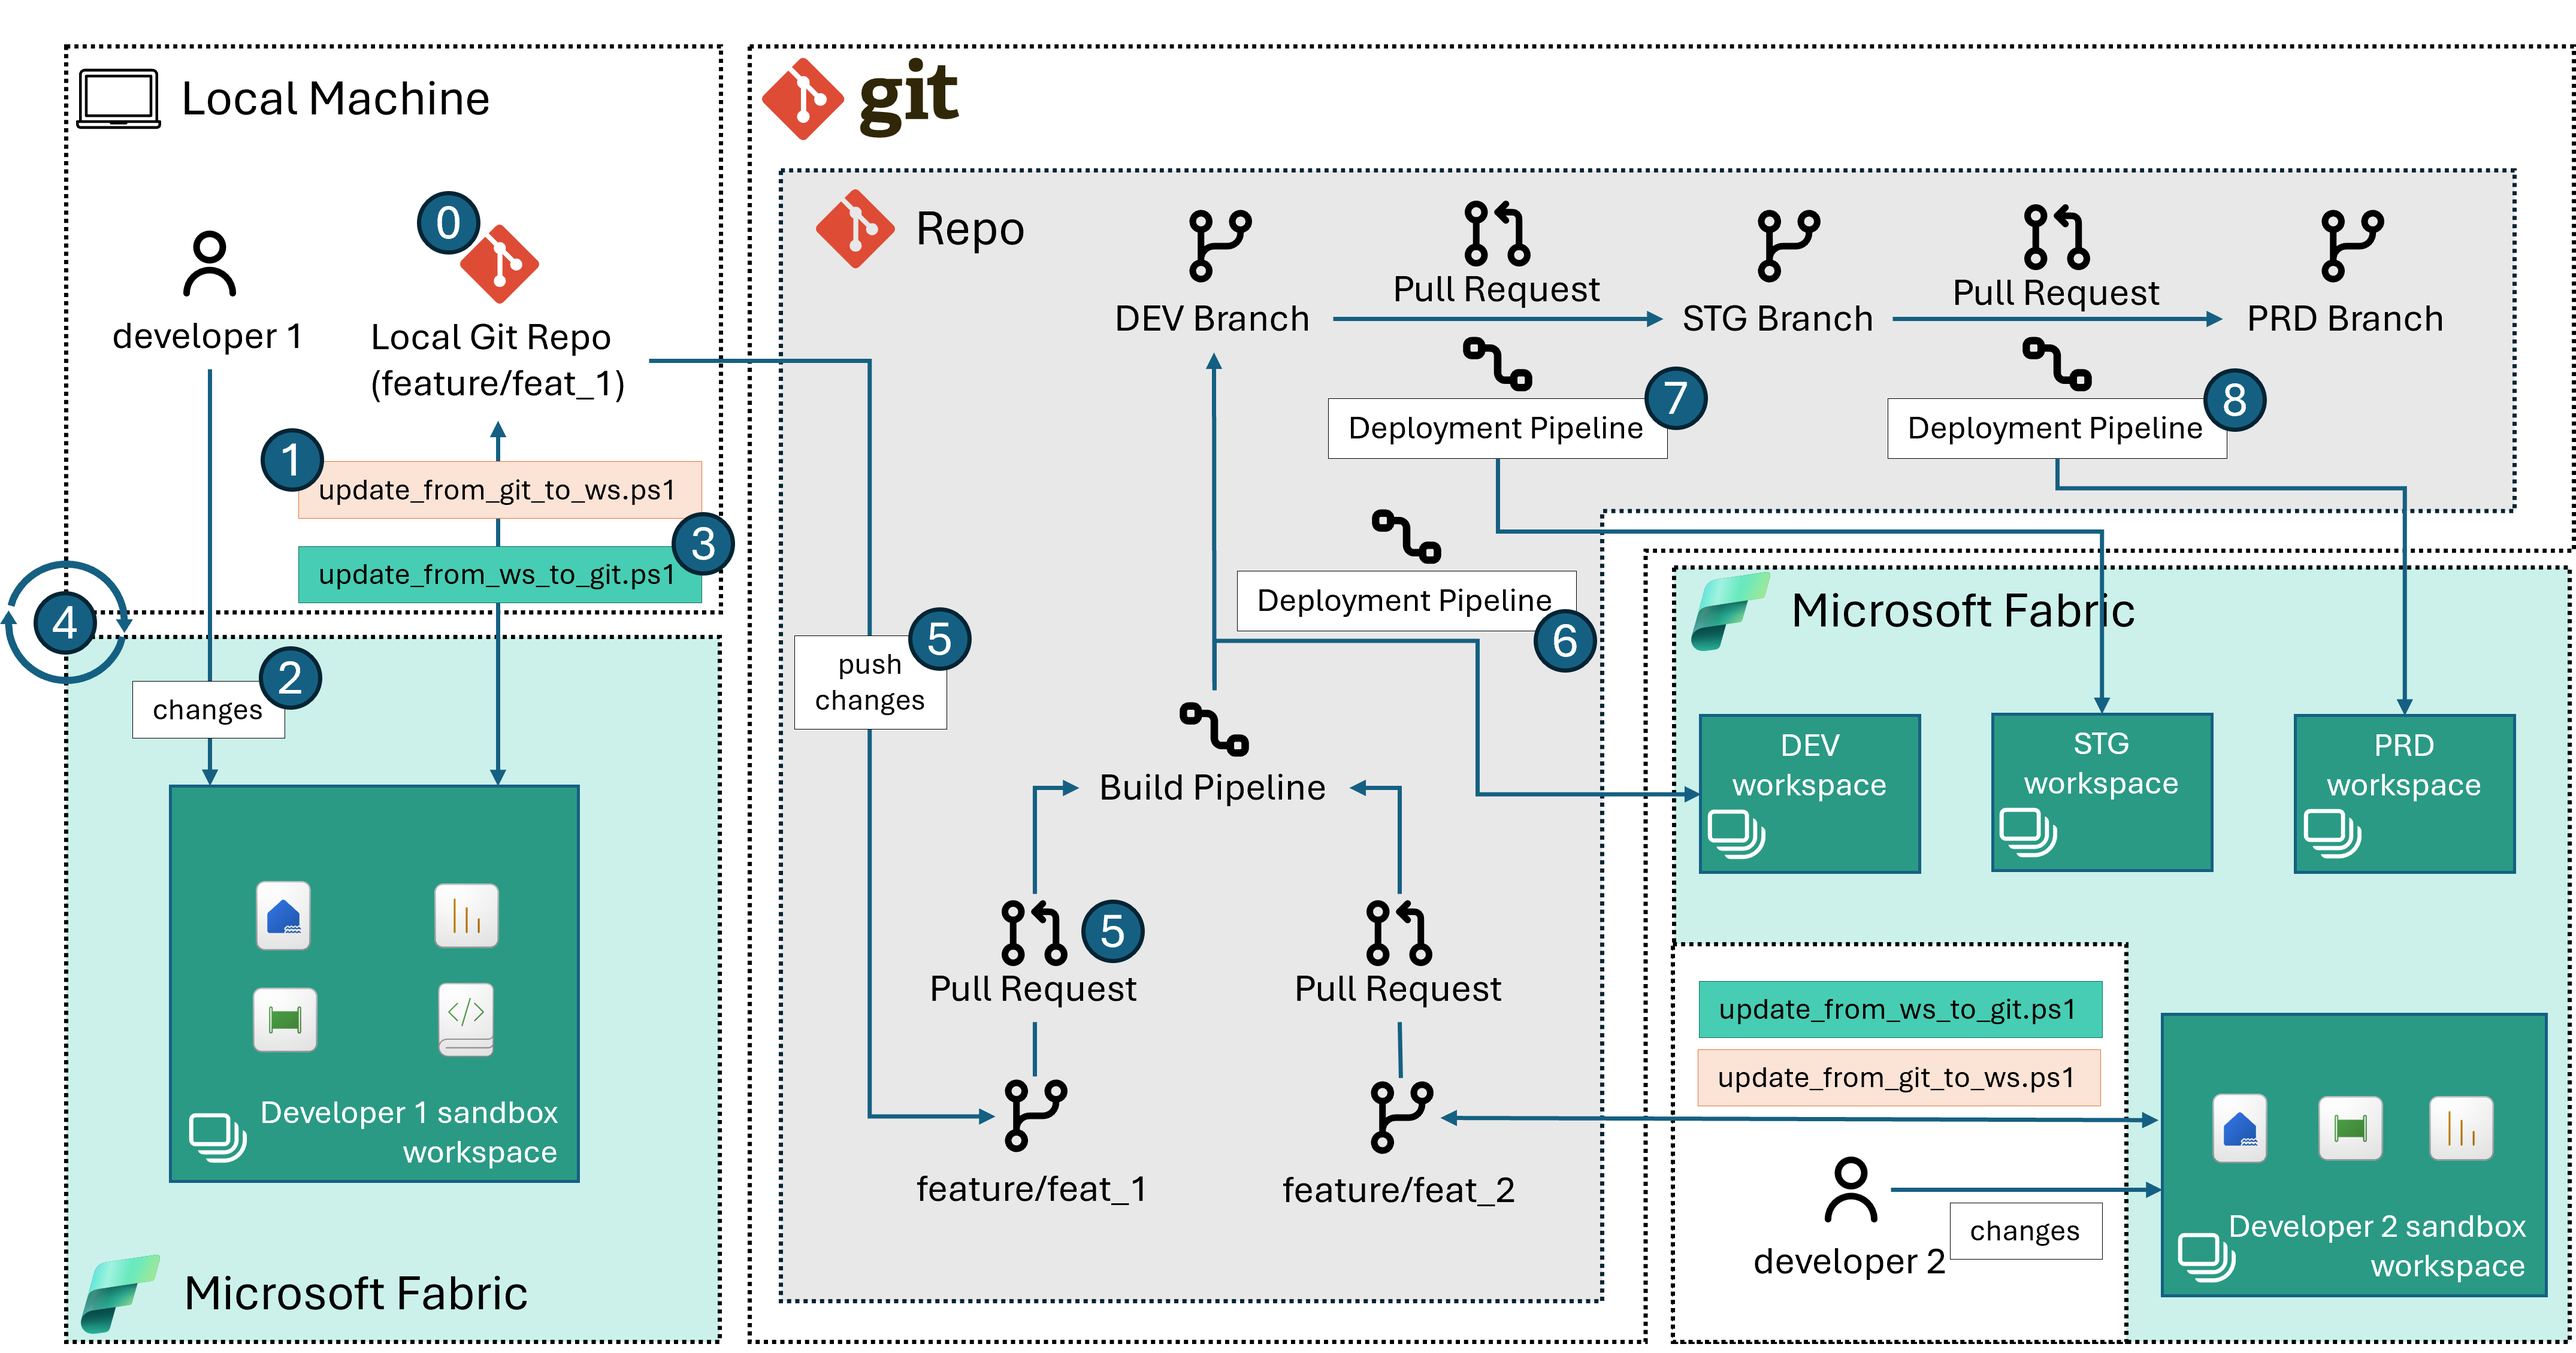
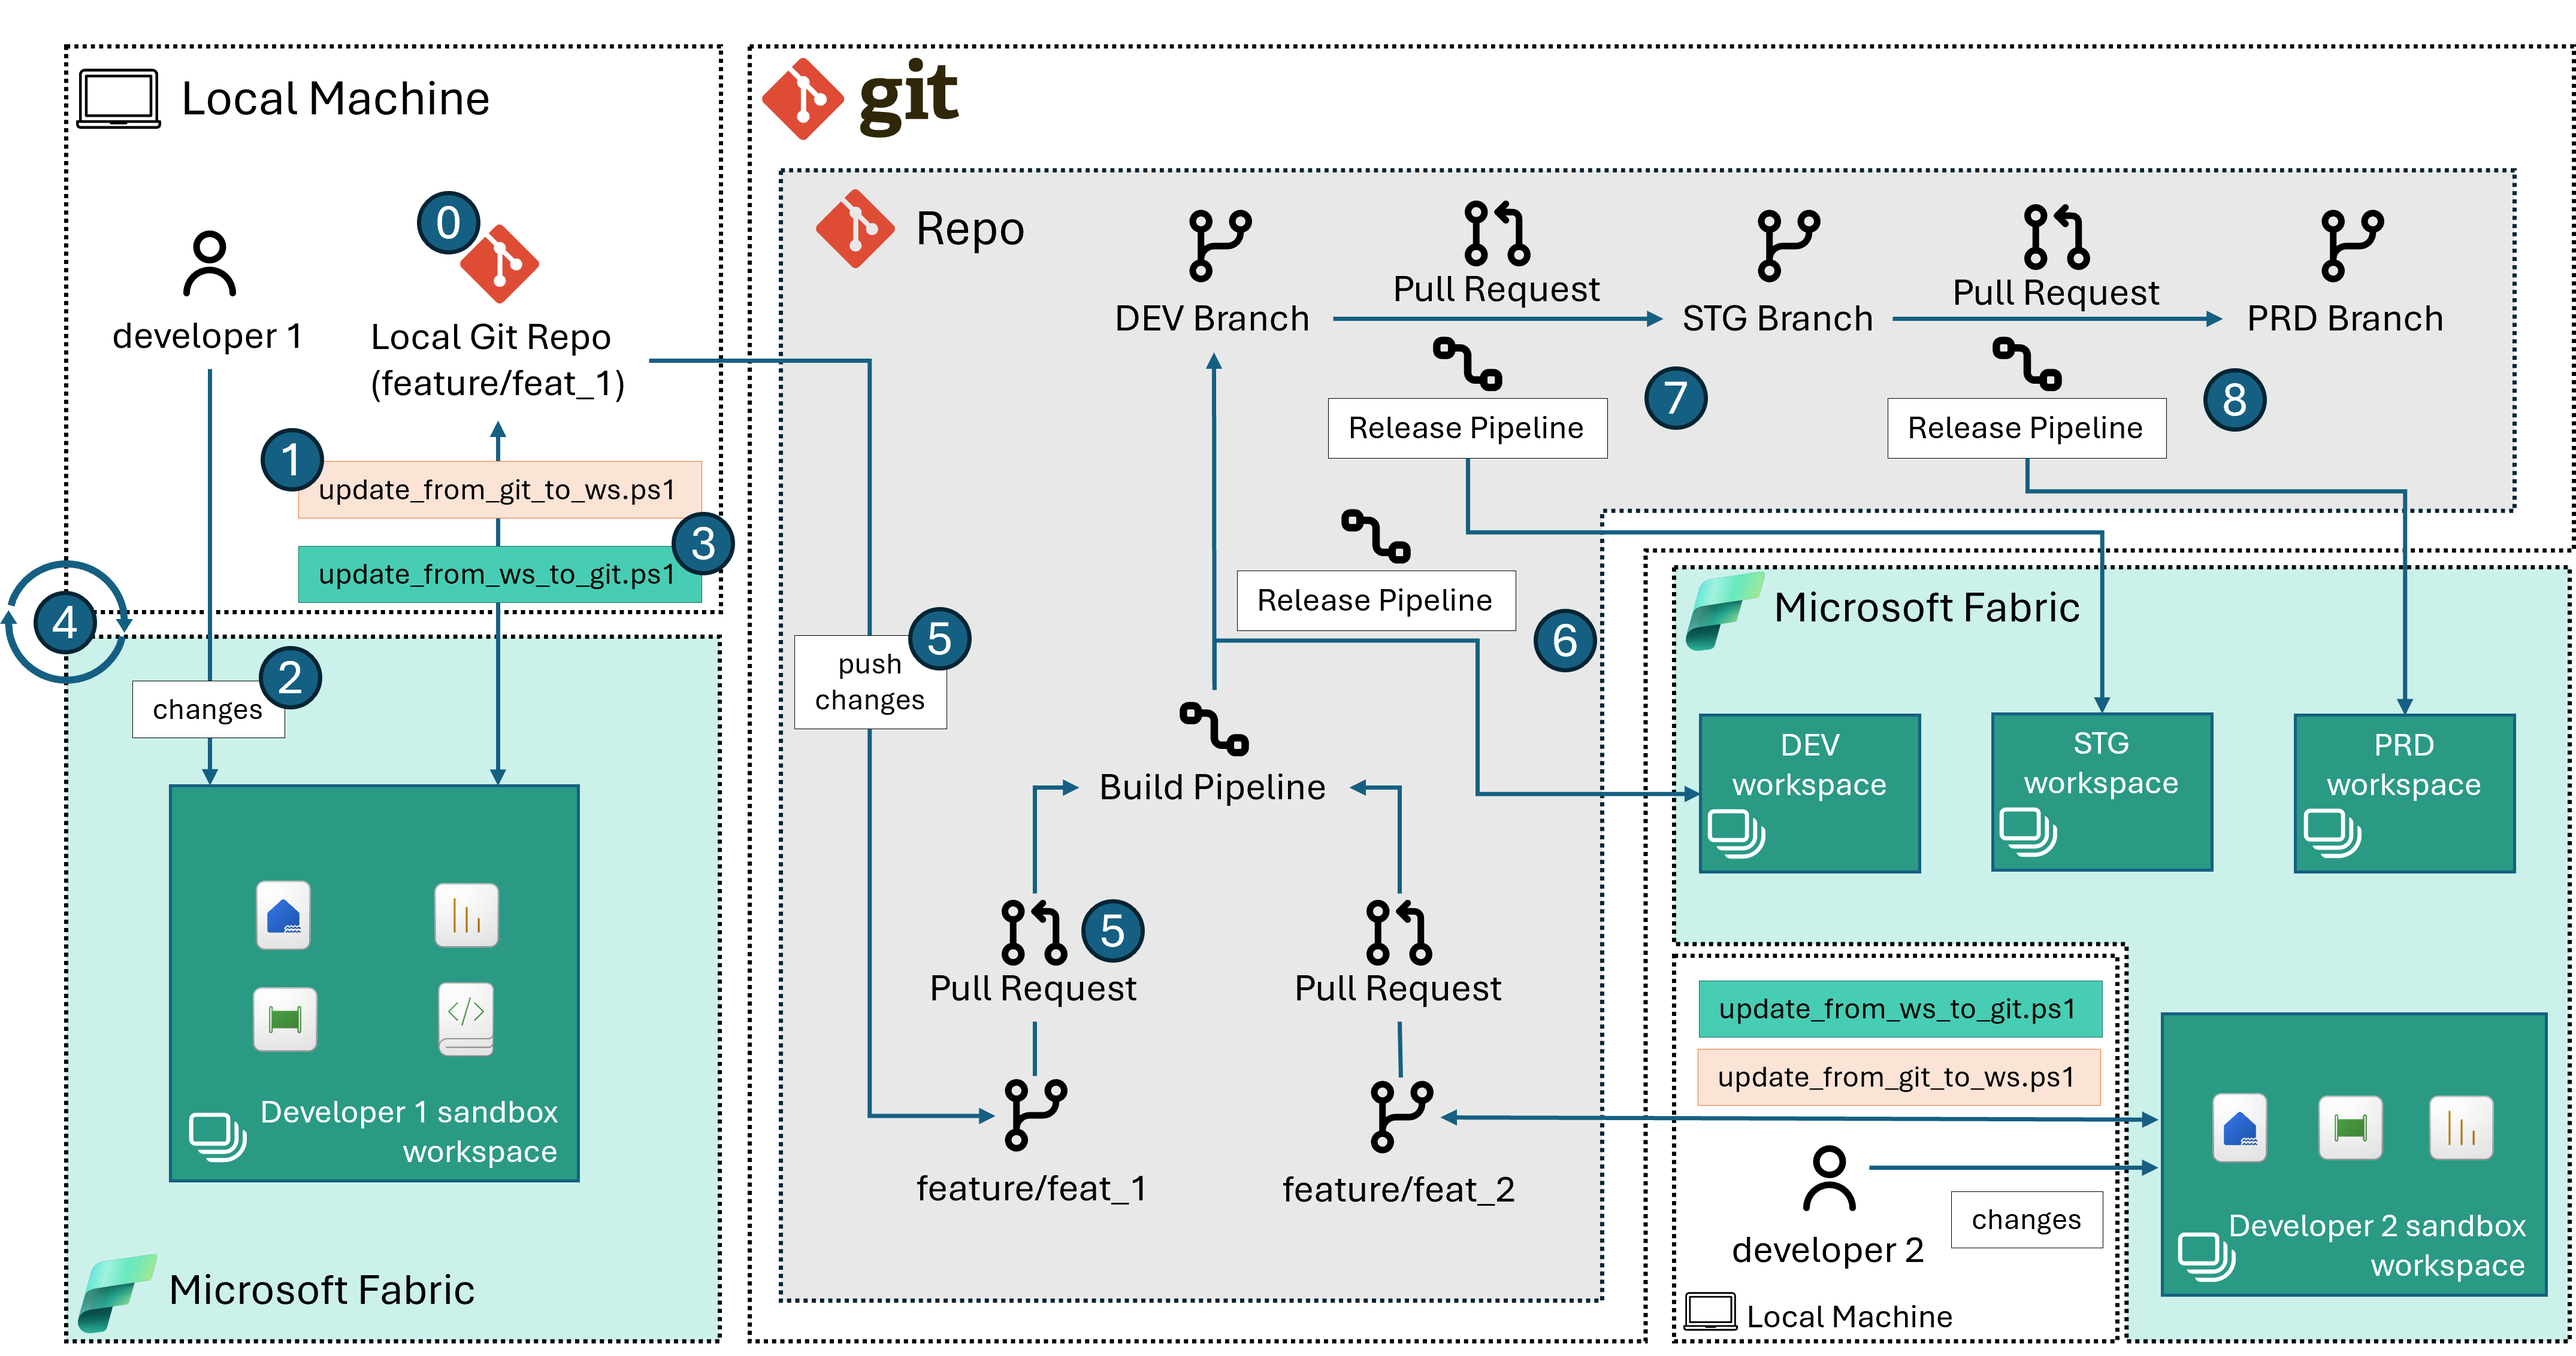
changes to reflect suggestions

diff --git a/single_tech_samples/fabric/fabric_cicd_gitlab/README.md b/single_tech_samples/fabric/fabric_cicd_gitlab/README.md
@@ -1,50 +1,35 @@
 # Fabric CI/CD Sample for Multi-Tenancy or Generic Git
 
-This code sample serves as a starting point for implementing CI/CD processes when working with Microsoft Fabric. While it currently has some [limitations](#known-limitations), the goal is to iteratively enhance its capabilities in alignment with Fabric’s advancements.
+## Introduction
 
-The sample is recommended if:
+This code sample provides an advanced mechanism for implementing a CI/CD process with Microsoft Fabric, accomodating multi-tenancy and generic-git deployments. While the sample currently has some [limitations](#known-limitations), the goal is to iteratively enhance its capabilities in alignment with Fabric’s advancements.
+
+This sample is recommended if:
 
 - your organization adopts multi-tenancy in their CI/CD processes, such as the different environments (such as Development, Staging and Production) are on different Microsoft Entra IDs.
 - your organization's preferred git tool is today not yet supported by Fabric (i.e. such as GitLab, and Bitbucket).
 
 If none of the scenarios above match your current situation, consider using the [Fabric CI/CD sample for Azure DevOps](../fabric_ci_cd/README.md).
 
-## Requirements
+## How Does It Work?
 
-- Powershell version 7+
-- Local IDE with git command installed.
-- A DevOps source control system, like Azure DevOps or GitLab.
-- A Fabric tenant with at least one capacity running.
-  - If you don't have a Fabric tenant you can create a [Fabric trial](https://learn.microsoft.com/fabric/get-started/fabric-trial) and use a trial capacity instead.
+### Using REST APIs for creating/updating Fabric items
 
-## Set-up Instructions
+Currently, Microsoft Fabric supports Git integration for Azure DevOps only. For this reason, this sample presents a way to use [Fabric REST APIs](https://learn.microsoft.com/rest/api/fabric/articles/using-fabric-apis) to integrate with other GIT source control mechanisms beyond Azure devOps. A brief summary of the steps involved are:
 
-### Repository
+1. Creating a Fabric workspace (if not existing already)
+2. Creating/updating Fabric items in the workspace to reflect what is on the developer branch.
+3. Working as needed in the Fabric workspace.
+4. Updating changes from workspace to reflect them back in source control.
 
-To use this sample it is advisable that you:
+> **Note 1**: This sample follows a strategy where each feature branch is paired with a corresponding Fabric workspace, implementing a one-workspace-per-branch approach.
+>
+> **Note 2**: This example includes a set of Fabric items to demonstrate the functionality of the solution. You are welcome to substitute these with your own items. In doing so, we advise maintaining identifiers such as workspaceIds and LakehouseIds as parameters for Notebooks and Data Pipelines. Failure to do this may result in the script being unable to push your item definitions if they reference item ids that have been removed.
 
-1. Create a brand new repository with your source control tool of choice.
-2. Clone the entire repository locally to a directory of your choice.
-3. Copy everything that is under [this sample's folder](./) to the directory from step 2.
-4. Read remaining instructions.
+This approach assumes that the developer will operate by following the recommended workflow, as described below in the [Recommended Workflow](#recommended-workflow) section.
 
-### PowerShell Scripts
 
-This sample uses PowerShell scripts to automate the CI/CD process. Below, you’ll find a brief overview of their purpose.
-
-| Script/File | Description |
-|--------|-------------|
-|[params.psd1](./src/params.psd1)|Parameters file - used to store the values of input arguments to the scripts. Update the values as needed.|
-|[update_from_git_to_ws.ps1](./src/update_from_git_to_ws.ps1)|Script to create a Fabric workspace (if non existing) and sync assets from source control (local git branch) to the workspace.|
-|[update_from_ws_to_git.ps1](./src/update_from_ws_to_git.ps1)|Script to update the local repository from the item defintions in the Fabric workspace.|
-
-> Note: to avoid committing secrets to your remote branch, make sure to ignore changes to the local version of your `params.psd1` file.
-
-### DevOps Pipelines
-
-Create Build (CI) and Release (CD) pipelines from the YML definitions provided in this sample. To do so, refer to the information in the [DevOps pipeline readme](./devops/README.md).
-
-## Fabric Items and Source Control
+### Source control mechanism for Fabric items
 
 This sample maintains a record of changes to Fabric items in source control to prevent the need for constant deletion and recreation of modified items. It does this by tracking the *Object Id*s (the GUIDs of the items in the Fabric workspace, as per the Fabric REST APIs) in an `item-config.json` configuration file.
 
@@ -58,7 +43,9 @@ All the files that compose a specific Fabric item are stored in a corresponding 
 
 All these individual item folders are then stored in one main folder, named `fabric` in this sample.
 
-folder structure:
+### Understanding repository structure
+
+The below folder structure offers a visual representation of how this code sample will organize source control files in the repository:
 
 ```fsys
 / (root of this project)
@@ -78,20 +65,46 @@ folder structure:
 └───...
 ```
 
-## Using Fabric item APIs for Git integration
 
-Currently, Microsoft Fabric supports Git integration for Azure DevOps only. This article presents a way to use [Fabric REST APIs](https://learn.microsoft.com/rest/api/fabric/articles/using-fabric-apis) to integrate with other GIT source control mechanisms beyond Azure devOps. A brief summary of the steps involved are:
 
-1. Creating a Fabric workspace (if not existing already)
-2. Creating/updating Fabric items in the workspace to reflect what is on the developer branch.
-3. Working as needed in the Fabric workspace.
-4. Updating changes from workspace to reflect them back in source control.
+### Understanding The PowerShell Scripts
 
-> **Note 1**: This sample follows a strategy where each feature branch is paired with a corresponding Fabric workspace, implementing a one-workspace-per-branch approach.
->
-> **Note 2**: This example includes a set of Fabric items to demonstrate the functionality of the solution. You are welcome to substitute these with your own items. In doing so, we advise maintaining identifiers such as workspaceIds and LakehouseIds as parameters for Notebooks and Data Pipelines. Failure to do this may result in the script being unable to push your item definitions if they reference item ids that have been removed.
+This sample uses PowerShell scripts to automate the CI/CD process. Below, you’ll find a brief overview of their purpose.
 
-This approach assumes that the developer will operate by following the recommended workflow, as described below.
+| Script/File | Description |
+|--------|-------------|
+|[params.psd1](./src/params.psd1)|Parameters file - used to store the values of input arguments to the scripts. Update the values as needed.|
+|[update_from_git_to_ws.ps1](./src/update_from_git_to_ws.ps1)|Script to create a Fabric workspace (if non existing) and sync assets from source control (local git branch) to the workspace.|
+|[update_from_ws_to_git.ps1](./src/update_from_ws_to_git.ps1)|Script to update the local repository from the item defintions in the Fabric workspace.|
+
+> Note: to avoid committing secrets to your remote branch, make sure to ignore changes to the local version of your `params.psd1` file.
+
+### Understanding The DevOps Pipelines
+
+The [DevOps Pipelies README](./devops/README.md) provides a comprehensive explanation of the functionality of the DevOps Pipelines showcased in this example.
+
+## Set-up Instructions
+
+### Pre-Requisites
+
+- Powershell version 7+
+- Local IDE with `git` command installed.
+- A DevOps source control system, like Azure DevOps or GitLab.
+- A Fabric tenant with at least one capacity running.
+  - If you don't have a Fabric tenant you can create a [Fabric trial](https://learn.microsoft.com/fabric/get-started/fabric-trial) and use a trial capacity instead.
+
+### Setting Up Your GIT Repository
+
+To use this sample it is advisable that you:
+
+1. Create a brand new repository with your source control tool of choice.
+2. Clone the entire repository locally to a directory of your choice.
+3. Copy everything that is under [this sample's folder](./) to the directory from step 2.
+4. Read remaining instructions.
+
+### Deployment Steps
+
+Create Build (CI) and Release (CD) pipelines from the YML definitions provided in this sample. To do so, refer to the information in the [DevOps pipeline readme](./devops/README.md).
 
 ### Recommended Workflow
 
@@ -101,11 +114,10 @@ The below picture illustrates these followed by a description of each of the num
 
 **Step 0. Prepare for local development**:
 
-- Create new feature branch from `dev` (or any other development branch) and pull new feature branch locally.
-- In a *bash* session run the following command. This command instructs git to disregard local modifications to any `item-config.json` file. The purpose of this is to prevent the `objectId`s in the `dev` branch from being replaced by the `objectId`s from the developer workspace during a commit. For more information see the [Fabric Items and Source Control](#fabric-items-and-source-control) section.
+- In a `bash` shell run the following command. Replace `feat/feat_1` with your feature branch name and `dev` with you main development branch name. This commands creates a new feature branch locally from `dev` (or the specified branch). It then instructs git to disregard local modifications to any new or existing `item-config.json` file. The purpose of this is to prevent the `objectId`s in the `dev` branch from being replaced by the `objectId`s from the developer workspace during a commit. For more information see the [Source Control Mechanisms for Fabric Items](#source-control-mechanism-for-fabric-items) section.
 
     ```sh
-    git update-index --assume-unchanged $(git ls-files | grep "item-config.json" | tr '\n' ' ')
+    .\new_branch.sh feat/feat_1 dev
     ```
 
 > Note: this approach will also work if no Fabric assets are present on your branch, but you will still need a folder for storing Fabric items definitions later.
@@ -115,7 +127,7 @@ The below picture illustrates these followed by a description of each of the num
 - Update the `params.psd1` file as needed. If you need to generate a new token refer to the [Generating a Fabric Bearer Token](#generating-a-fabric-bearer-token) section. Load the values of the parameters file as follows:
 
     ```pwsh
-    $config = Import-PowerShellDataFile .\<local-file-path>\params.psd1
+    $config = Import-PowerShellDataFile .\src\params.psd1
     ```
 
 - Run the [`update_from_git_to_ws.ps1`](./src/update_from_git_to_ws.ps1) script from the local repository folder. This step will create a new workspace and mirror what is on the repo to the workspace.
@@ -124,13 +136,13 @@ The below picture illustrates these followed by a description of each of the num
   - When running this for the first time on a new branch, utilize the `-resetConfig` setting it to `$true`. This ignores any existing `item-config.json` files and creates corresponding new objects in the workspace. This step is crucial as it prevents the script from failing due to a search for `objectId`s that are coming from the `dev` branch/workspace, which would not exist in the new Fabric workspace.
 
     ```pwsh
-    .\<local-file-path>\update_from_git_to_ws.ps1 -baseUrl $config.baseUrl -fabricToken $config.fabricToken -workspaceName $config.workspaceName -capacityId $config.capacityId -folder $config.folder -resetConfig $true
+    .\src\update_from_git_to_ws.ps1 -baseUrl $config.baseUrl -fabricToken $config.fabricToken -workspaceName $config.workspaceName -capacityId $config.capacityId -folder $config.folder -resetConfig $true
     ```
 
   - All other times you can omit the flag `-resetConfig` (it will default to `$false`).
 
     ```pwsh
-    .\<local-file-path>\update_from_git_to_ws.ps1 -baseUrl $config.baseUrl -fabricToken $config.fabricToken -workspaceName $config.workspaceName -capacityId $config.capacityId -folder $config.folder
+    .\src\update_from_git_to_ws.ps1 -baseUrl $config.baseUrl -fabricToken $config.fabricToken -workspaceName $config.workspaceName -capacityId $config.capacityId -folder $config.folder
     ```
 
 **Step 2. Develop in the Fabric workspace**:
@@ -155,6 +167,8 @@ The below picture illustrates these followed by a description of each of the num
 - When happy with the changes, create a PR to merge the changes.
 
    > **CAUTION**: Make sure that when creating the PR no `item-config.json` files are pushed to `dev`. These files are created in each of the workspace item folder as part of Step 3. This file contains the *logical ids and object ids* to identify each of the assets. However, these vary from workspace to another hence these should not be checked in.
+   > 
+   > **Note**: After the PR is merged it is recommended that the developer delete the feature branch. When, in the local development environment, the developer will switch back to the `dev` branch they will be warned that local changes to `.gitignore` and `item-config.json` files will be lost. There is no harm in doing this.
 
 **Step 6. Follow PR approval process to DEV workspace**:
 
